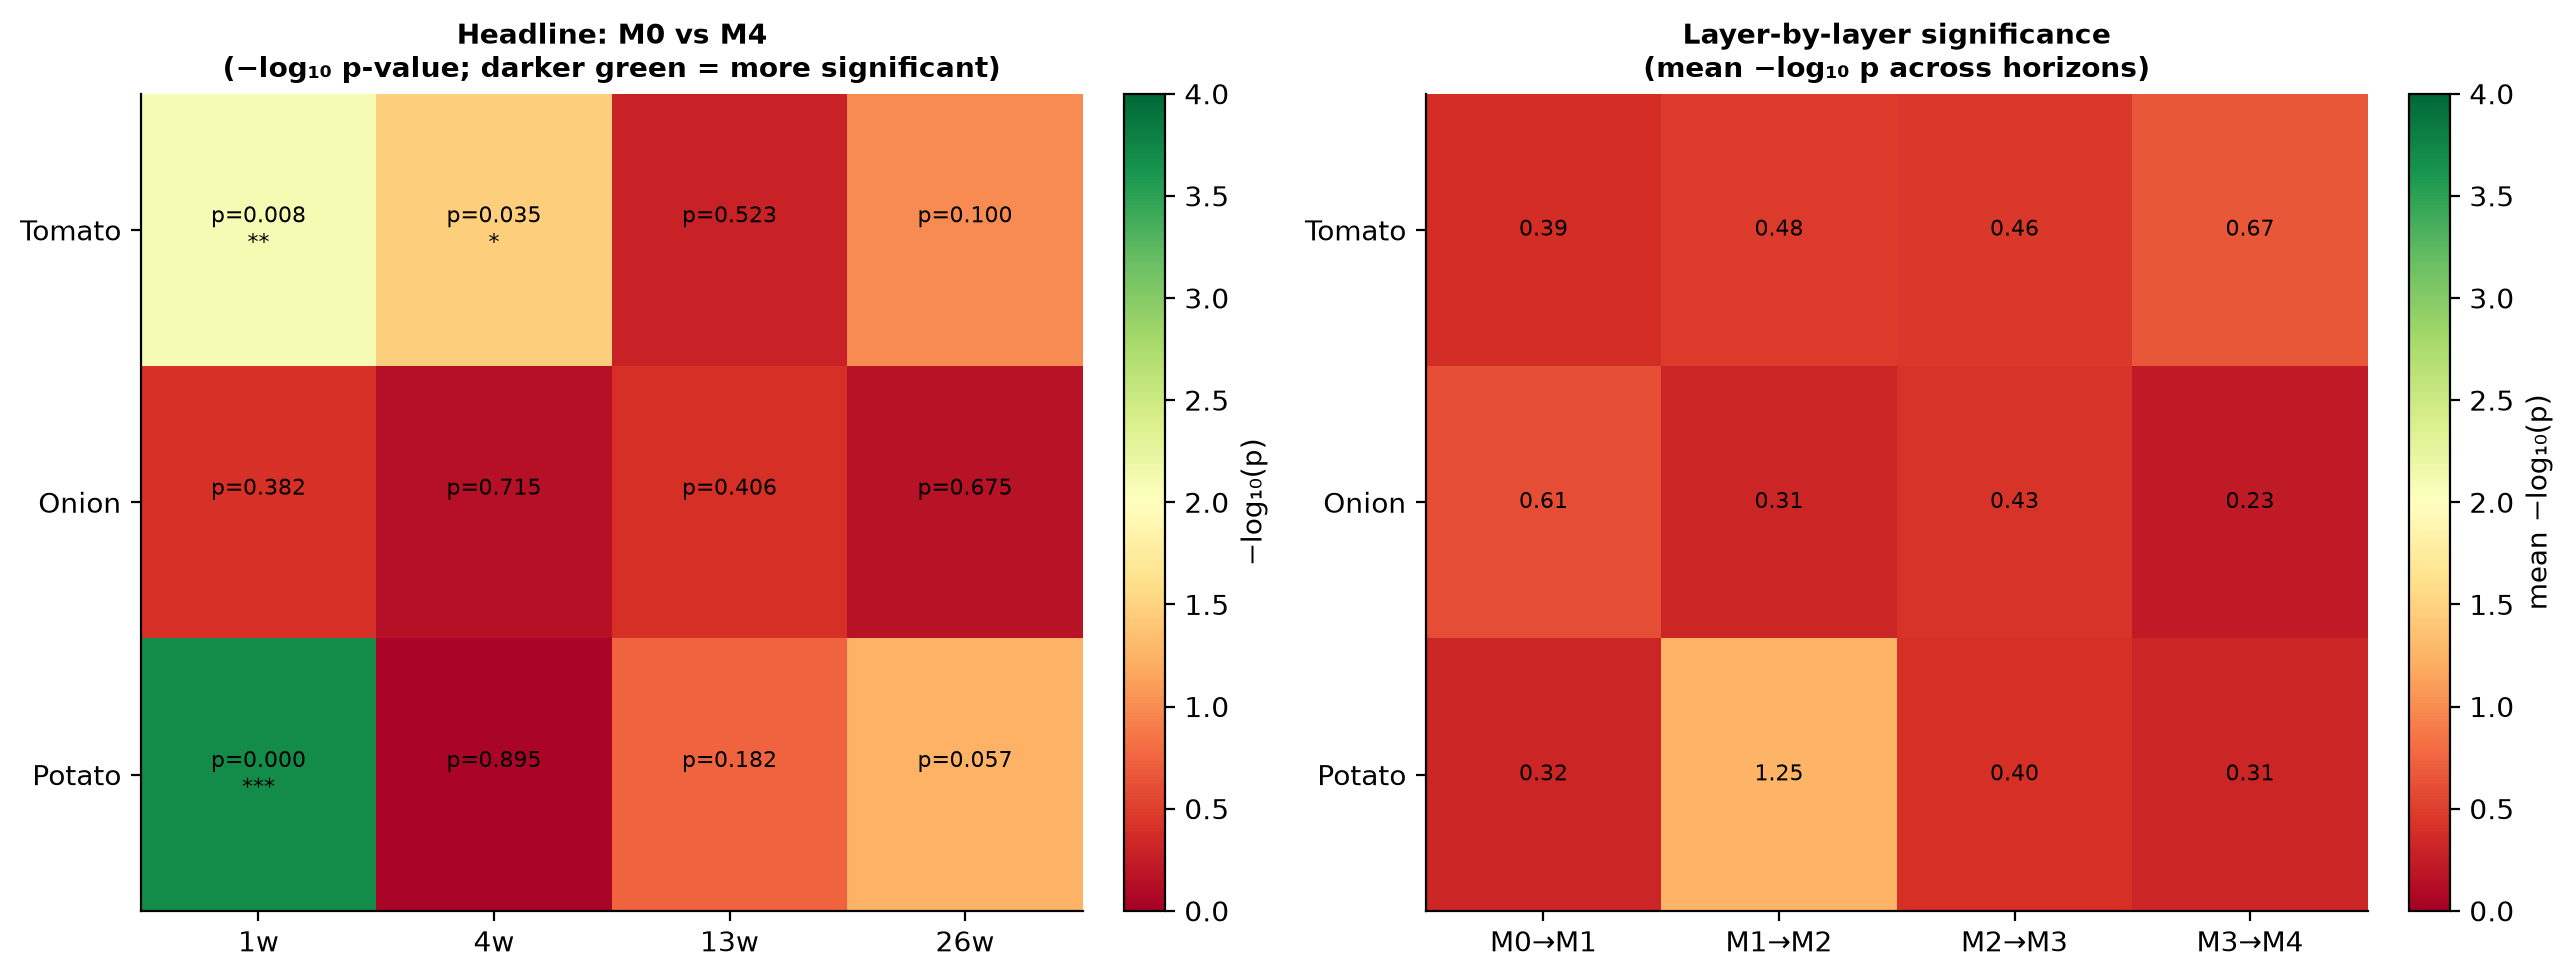
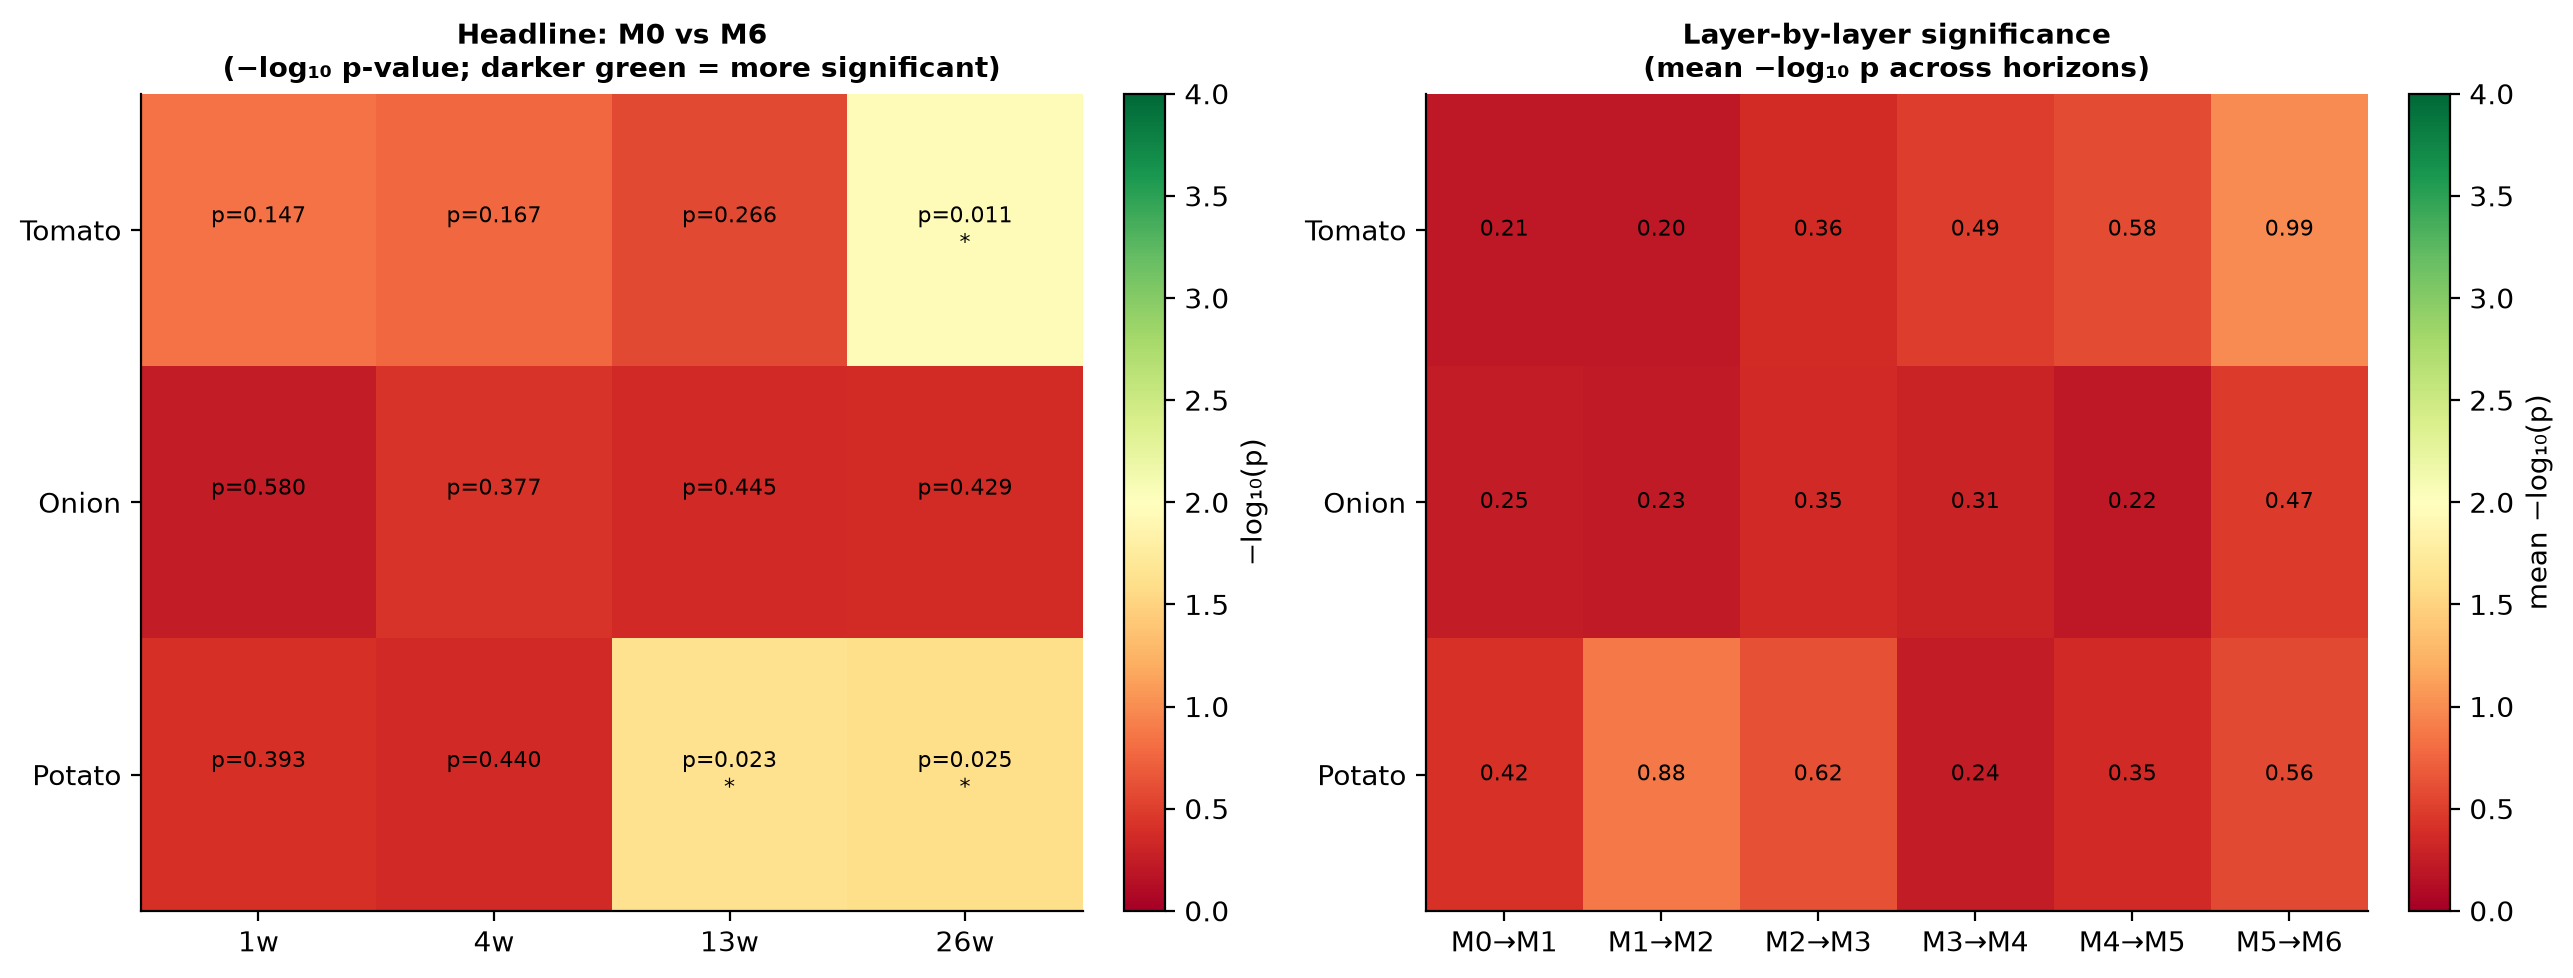
Fix Script 18's stale M0-vs-M4 DM test, extend to the actual M0-M6 headline
Script 15 has trained M0-M6 (7 variants, full pipeline) since well before
this fix, but Script 18's headline/layer comparisons were still hardcoded
to stop at M4 -- every DM significance test it ever ran validated an
outdated intermediate variant, never the current full-pipeline headline
(M0 vs M6) that Scripts 15/27 treat as canonical. M5/M6 were silently
absent from every table/figure this script produced.

Extended VARIANTS/LAYER_PAIRS to the full M0-M6 chain (6 layer-by-layer
comparisons, was 4); M0 vs M6 is now the headline pair, M0 vs M4 kept as
a named secondary comparison for continuity with earlier write-ups.
Fold count already read from the data (not hardcoded), just the stale
docstring updated.

Re-run result: headline (M0 vs M6) 3/12 crop x horizon cells significant
(tomato h=26w M6 better p=0.012; potato h=13w/26w M0 better p=0.023/
0.025) -- consistent with the ablation study's own documented crop/
horizon heterogeneity finding, not a surprising result.

diff --git a/scripts/18_Diebold_Mariano_Tests.py b/scripts/18_Diebold_Mariano_Tests.py
@@ -3,9 +3,21 @@
 Script 18 — Diebold-Mariano Statistical Significance Tests
 =============================================================
 Converts the ablation study's MAPE/R² differences (Script 15) into formal
-p-values, testing whether each added data layer (M0→M1→M2→M3→M4) produces a
+p-values, testing whether each added data layer (M0→M1→...→M6) produces a
 statistically significant improvement in forecast accuracy — not just a
 numerically larger metric.
+
+FIXED 2026-09-02 (audit finding, confirmed): Script 15 has trained M0-M6
+(7 variants, full pipeline through Infrastructure/Policy) since long before
+this fix, but this script's HEADLINE_PAIR/LAYER_PAIRS/VARIANT_LABELS were
+still hardcoded to stop at M4 -- so every DM significance test this script
+ever ran validated an outdated intermediate variant (M0 vs M4, "+Satellite")
+rather than the actual current headline comparison other scripts (15, 27)
+treat as the full pipeline (M0 vs M6, "+Policy/Trade"). M5/M6 were silently
+absent from every table/figure this script produced. Extended to the full
+chain; M0 vs M6 is now the headline pair, M0 vs M4 is kept as an ADDITIONAL
+named comparison (not removed) since some earlier write-ups may reference it
+specifically.
 
 Method: Diebold & Mariano (1995) test on squared-error loss differentials,
 with the Harvey-Leybourne-Newbold (1997) small-sample correction (t-distribution
@@ -14,14 +26,16 @@ adjustment for finite T) and Newey-West-style autocovariance truncated at
 lag h-1, since an h-step-ahead forecast error series is MA(h-1) under
 correct model specification.
 
-Test series: for each (crop, horizon), the 4 folds' test-period weeks
-(2022, 2023, 2024, 2025 — non-overlapping) are concatenated in chronological
-order into one continuous crop-level weekly time series, using the
-crop-level average predictions Script 15 saves per variant.
+Test series: for each (crop, horizon), each fold's test-period weeks are
+concatenated in chronological order into one continuous crop-level weekly
+time series, using the crop-level average predictions Script 15 saves per
+variant. Fold count is read from the data itself (Script 15 has run 5 folds,
+2022-2026, since 2026-08-13 -- not hardcoded here).
 
 Comparisons:
-  Headline:      M0 (price only) vs M4 (full pipeline)
-  Layer-by-layer: M0 vs M1, M1 vs M2, M2 vs M3, M3 vs M4 — isolates whether
+  Headline:       M0 (price only) vs M6 (full pipeline)
+  Also reported:  M0 vs M4 (the pre-2026-08 headline pair, kept for continuity)
+  Layer-by-layer: M0 vs M1, M1 vs M2, ..., M5 vs M6 — isolates whether
                    each individual data layer's addition is significant
 
 Inputs:
@@ -59,13 +73,17 @@ CROPS    = ['tomato', 'onion', 'potato']
 HORIZONS = [1, 4, 13, 26]
 ALPHA    = 0.05
 
-HEADLINE_PAIR = ('M0', 'M4')
-LAYER_PAIRS   = [('M0', 'M1'), ('M1', 'M2'), ('M2', 'M3'), ('M3', 'M4')]
-ALL_PAIRS     = [HEADLINE_PAIR] + LAYER_PAIRS
+VARIANTS = ['M0', 'M1', 'M2', 'M3', 'M4', 'M5', 'M6']
+
+HEADLINE_PAIR   = ('M0', 'M6')
+SECONDARY_PAIRS = [('M0', 'M4')]   # pre-2026-08 headline pair, kept for continuity
+LAYER_PAIRS     = list(zip(VARIANTS[:-1], VARIANTS[1:]))
+ALL_PAIRS       = [HEADLINE_PAIR] + SECONDARY_PAIRS + LAYER_PAIRS
 
 VARIANT_LABELS = {
     'M0': 'Price only', 'M1': '+ Arrivals', 'M2': '+ Macro',
-    'M3': '+ Climate', 'M4': '+ Satellite',
+    'M3': '+ Climate', 'M4': '+ Satellite', 'M5': '+ Infrastructure',
+    'M6': '+ Policy/Trade',
 }
 
 CROP_COLORS = {'tomato': '#E63946', 'onion': '#F4A261', 'potato': '#457B9D'}
@@ -167,7 +185,7 @@ print(f'  Horizons: {sorted(preds["horizon_weeks"].unique())}\n')
 # ─────────────────────────────────────────────────────────────────────────────
 # 4. RUN DM TESTS
 # ─────────────────────────────────────────────────────────────────────────────
-print('[1] Running DM tests: headline (M0 vs M4) + layer-by-layer ...\n')
+print(f'[1] Running DM tests: headline ({HEADLINE_PAIR[0]} vs {HEADLINE_PAIR[1]}) + layer-by-layer ...\n')
 
 rows = []
 for crop in CROPS:
@@ -176,9 +194,11 @@ for crop in CROPS:
         if sub.empty:
             continue
 
-        # Concatenate all 4 folds chronologically per variant
+        # Concatenate every available fold chronologically per variant (fold
+        # count comes from whatever's actually in the data -- see the
+        # 2026-09-02 fix note above; do not hardcode a fold count here).
         series = {}
-        for variant in ['M0', 'M1', 'M2', 'M3', 'M4']:
+        for variant in VARIANTS:
             vsub = (sub[sub['variant'] == variant]
                     .sort_values(['fold', 'week_start'])
                     .drop_duplicates(subset='week_start'))
@@ -231,11 +251,18 @@ print(f'\n  {n_sig}/{n_total} comparisons significant at p<0.05')
 
 headline = dm_results[dm_results['is_headline']]
 n_sig_headline = headline['significant_5pct'].sum()
-print(f'  Headline (M0 vs M4): {n_sig_headline}/{len(headline)} significant')
+print(f'  Headline ({HEADLINE_PAIR[0]} vs {HEADLINE_PAIR[1]}): {n_sig_headline}/{len(headline)} significant')
 for _, r in headline.iterrows():
     sig = sig_stars(r['p_value'])
-    direction = 'M4 better' if r['better_model'] == 'richer' else 'M0 better' if r['better_model'] == 'baseline' else 'n/a'
+    direction = (f'{HEADLINE_PAIR[1]} better' if r['better_model'] == 'richer'
+                 else f'{HEADLINE_PAIR[0]} better' if r['better_model'] == 'baseline' else 'n/a')
     print(f'    {r["crop"]:7s} h={r["horizon_weeks"]:>2}w: p={r["p_value"]:.4f}{sig:<4s} ({direction})')
+
+secondary = dm_results[(dm_results['baseline'] == SECONDARY_PAIRS[0][0]) &
+                        (dm_results['richer'] == SECONDARY_PAIRS[0][1])]
+n_sig_secondary = secondary['significant_5pct'].sum()
+print(f'\n  Secondary ({SECONDARY_PAIRS[0][0]} vs {SECONDARY_PAIRS[0][1]}, pre-2026-08 headline pair, '
+      f'kept for continuity): {n_sig_secondary}/{len(secondary)} significant')
 
 
 # ─────────────────────────────────────────────────────────────────────────────
@@ -245,7 +272,7 @@ print('\n[3] Generating figure ...')
 
 fig, axes = plt.subplots(1, 2, figsize=(13, 5))
 
-# Panel A: headline M0 vs M4, crops x horizons
+# Panel A: headline M0 vs M6, crops x horizons
 pivot_headline = headline.pivot(index='crop', columns='horizon_weeks', values='p_value')
 pivot_headline = pivot_headline.reindex(index=CROPS, columns=HORIZONS)
 neglog_p = -np.log10(pivot_headline.clip(lower=1e-10))
@@ -256,7 +283,8 @@ ax.set_xticks(range(len(HORIZONS)))
 ax.set_xticklabels([f'{h}w' for h in HORIZONS])
 ax.set_yticks(range(len(CROPS)))
 ax.set_yticklabels([c.capitalize() for c in CROPS])
-ax.set_title('Headline: M0 vs M4\n(−log₁₀ p-value; darker green = more significant)',
+ax.set_title(f'Headline: {HEADLINE_PAIR[0]} vs {HEADLINE_PAIR[1]}\n'
+             '(−log₁₀ p-value; darker green = more significant)',
              fontsize=10, fontweight='bold')
 for i in range(len(CROPS)):
     for j in range(len(HORIZONS)):

diff --git a/Model_Output/MANIFEST.md b/Model_Output/MANIFEST.md
@@ -370,7 +370,7 @@ Status legend: 🟢 current · 🟡 stale, known, re-run pending · ⚫ deprecat
 | `15c_LSTM_Transformer_Comparison.py` | `table_lstm_transformer_comparison*.csv`, `fig_lstm_transformer_comparison.png` | 2026-07-29 | 🟡 | Predates the 2026-08-01 grid fix. ~23 min re-run, deliberately deferred alongside 15b. |
 | `16_Zone_Assignment.py` | `fig_zone_assignment_*.png`, `data/zone_assignment.csv` | 2026-07-28 | 🟢 | Reflects relocated P1-P3 potato zones; potato's market panel is unchanged by the grid fix (82->82). |
 | `17_TFT_Model.py` | `tft_raw_results.csv`, `table_tft_vs_lgbm.csv`, `fig_tft_*.png` | 2026-07-22 | 🟡 | Reduced-scope run only — full-capacity run remains deferred (see README §9), now additionally predates the 2026-08-01 grid fix too. |
-| `18_Diebold_Mariano_Tests.py` | `table_diebold_mariano.csv`, `fig_dm_pvalues.png` | 2026-08-01 | 🟢 | Re-run on the grid-fixed panel. Crop-level, M0 vs M4 headline; conclusions qualitatively unchanged. |
+| `18_Diebold_Mariano_Tests.py` | `table_diebold_mariano.csv`, `fig_dm_pvalues.png` | 2026-09-02 (revised) | 🟢 | **Revised: fixed a real staleness bug (audit finding, confirmed).** Script 15 has trained M0-M6 (7 variants) since well before this fix, but this script's headline/layer comparisons were still hardcoded to stop at M4 — every DM test it ever ran validated an outdated intermediate variant, never the actual current full-pipeline headline (M0 vs M6) that Scripts 15/27 treat as canonical; M5/M6 were silently absent from every output. Extended to the full M0→M6 chain (6 layer-by-layer pairs, was 4); M0 vs M6 is now the headline pair, M0 vs M4 kept as a named secondary comparison for continuity with earlier write-ups. Re-run: **headline (M0 vs M6) 3/12 crop×horizon cells significant** (tomato h=26w: M6 better, p=0.012; potato h=13w/26w: M0 better, p=0.023/0.025) — consistent with the ablation study's own documented crop/horizon heterogeneity finding (tomato favors the full pipeline long-horizon, potato favors the price-only baseline long-horizon), not a surprising result. Secondary (M0 vs M4): 2/12 significant. |
 | `18b_Market_Level_DM_Check.py` | `table_dm_market_level_*.csv` | 2026-08-15 | 🟢 | **No longer deferred.** Re-run against the `market_id`-corrected Script 15 diagnostic predictions (see 2026-08-14/15 note above). M0-vs-M6 per-market: at h=1w, significant markets favour M0 for tomato/onion (80.6%/68.9%) but M6 for potato (75.0%) — a reversal in both crops from the last figures this file recorded; at h=13w the pattern flips toward M6 for tomato/onion (96.4%/92.5%) and stays with M0 for potato (100%). Treat any earlier-recorded percentages for this table as superseded. |
 | `19_Policy_Trade_Events.py` | `data/policy_trade/policy_weekly_features.csv` (not in Model_Output) | 2026-08-01 | 🟢 | `PANEL_END` extended 2025-12-31→2026-12-31 (see note above) — fixes the dashboard's ~30-week-stale policy-control warning. 5 new 2026 events verified against primary sources and added (CBIC notification, PIB release, 3 press-corroborated buffer-price hikes, sourcing tier kept honest for the latter). |
 | `23_Train_Production_Models.py` | `production_models/` (subfolder) | 2026-08-04 | 🟢 | Retrained on the grid-fixed panel — 1,721 market baselines (up from ~845). Monotonic constraint on the three export-control policy features retained; oversampling attempt tried and reverted — magnitude question now handled by Script 31 (SDID) instead of asked of this model. Retrained 2026-08-01 for the WPI vintage refresh (tree counts shifted per crop/horizon but validated RMSE/MAPE came out byte-identical) and **again 2026-08-04 for the `s2_ndvi_anom` leakage fix** — small, real, non-headline-moving effect each time; `reference_rows.csv` (dashboard's live baseline) unchanged both times, since only historical training rows were affected, not the latest week. |

diff --git a/README.md b/README.md
@@ -95,7 +95,7 @@ from the project root (`cd TOP_Digital_Twin`, then `python scripts/NN_Name.py`).
 
 | Script | What it does | Depends on |
 |---|---|---|
-| `18_Diebold_Mariano_Tests.py` | Crop-level DM significance tests on Script 15's ablation results | Script 15 output (`ablation_predictions.csv`) |
+| `18_Diebold_Mariano_Tests.py` | Crop-level DM significance tests on Script 15's ablation results. **Fixed 2026-09-02**: was hardcoded to test only M0 vs M4 (stale since Script 15 later expanded to M0-M6) — every headline significance test it ran validated an outdated intermediate variant. Extended to the full M0→M6 chain; M0 vs M6 is now the headline pair. Re-run result: 3/12 crop×horizon cells significant (tomato h=26w, potato h=13w/26w), consistent with the ablation study's own crop/horizon heterogeneity finding. | Script 15 output (`ablation_predictions.csv`) |
 | `18b_Market_Level_DM_Check.py` | Higher-power market-level DM tests | Script 15 run with `MARKET_LEVEL_DIAGNOSTIC = True` (`dm_market_level_predictions.csv`) |
 | `27_Horizon_Skill_And_MCS.py` | Reshapes Script 15's MASE into a horizon-conditional skill% table (identifies each crop's crossover horizon where the full pipeline first beats naive persistence), then runs a Model Confidence Set (Hansen, Lunde & Nason 2011 — stationary-bootstrap range statistic) jointly testing all 8 variants per crop × horizon with familywise error control, the multi-model alternative to Script 18's pairwise DM tests. **<1 min** (no model fitting, pure statistical test). | Script 15 output (`ablation_predictions.csv`, `table_mase.csv`) |
 | `28_Crisis_Backtesting_Case_Studies.py` | Backtests 4 real, verified crisis episodes (tomato's Jun-Sep 2023 spike/crash, onion's Aug 2023-Jan 2024 export-restriction escalation/post-ban crash, potato's Apr 2024 spike and Jan 2025 crash) against Script 15's out-of-sample fold predictions, cross-referenced with Script 19's verified policy-event log. Answers whether "naive wins on average" still holds specifically during the crises policy cares about (it does at h=1w; the data layers pull decisively ahead at h=13w/26w for tomato/onion, but not for potato). **<1 min.** | Script 15 output (`ablation_predictions.csv`), Script 19 output (`export_policy_events.csv`) |
